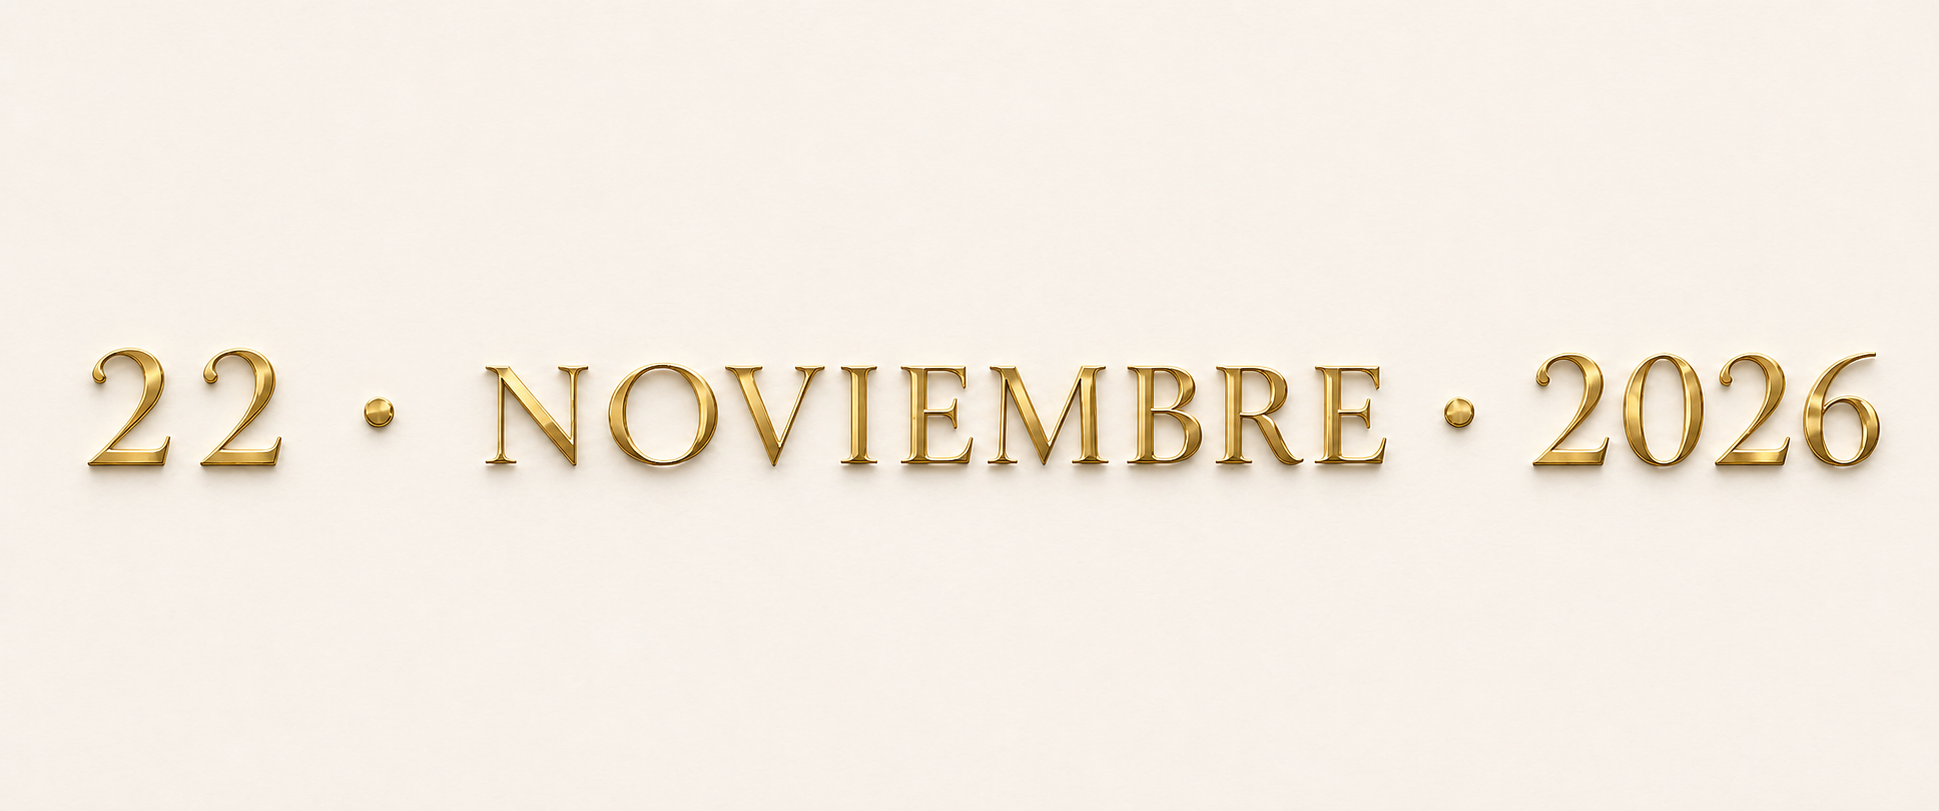
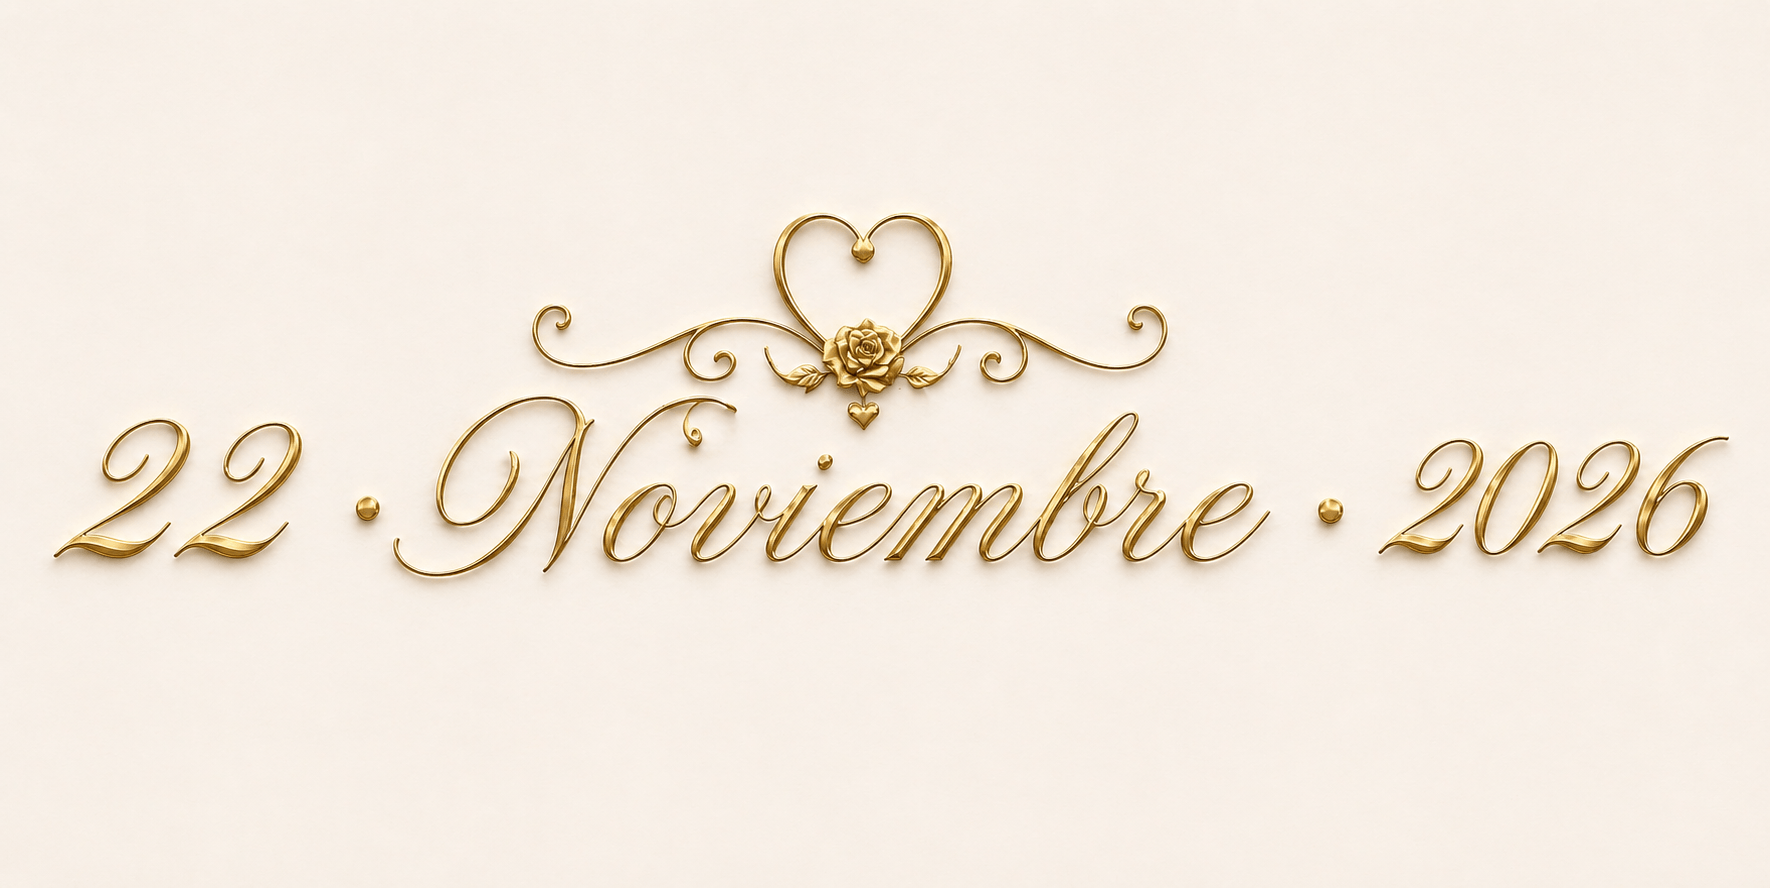
add new font

Changed region(s): [[0.0311, 0.2158, 0.7147, 0.6782], [0.7458, 0.4316, 0.9944, 0.6473]]

diff --git a/src/App.tsx b/src/App.tsx
@@ -2,7 +2,7 @@ import { useState } from "react"
 import { AddToCalendar } from "./components/AddToCalendar"
 import { Countdown } from './components/Countdown'
 import { ImageFadeGrid } from './components/ImageFadeGrid'
-import { LunaDeMielCard } from './components/LunaDeMielCard'
+//import { LunaDeMielCard } from './components/LunaDeMielCard'
 //import { MusicPlayer } from './components/MusicPlayer'
 import { RsvpModal } from "./features/rsvp/components/RsvpModal"
 import { RevealOnScroll } from "./components/RevealOnScroll"
@@ -13,14 +13,14 @@ function App() {
 
   return (
     <>
-      <section className="mx-auto w-full max-w-md pt-10 text-center bg-background">
+      <section className="mx-auto w-full md:max-w-md text-center bg-background">
 
           
 
           <RevealOnScroll>
         <div className="flex">
           <img 
-             src="https://res.cloudinary.com/dwxwejuvu/image/upload/v1777214788/xwvd2x232xmh6xg2mbwz.png" 
+             src="/nombres-04.png" 
              alt="Emilia&Nicolas"
              className="w-11/12 h-auto mx-auto object-contain" 
              />
@@ -98,7 +98,7 @@ function App() {
               </h2>
 
               <p className="md:text-lg text-xs font-montserrat text-texto tracking-wide uppercase mt-5 mb-5">
-                18:45 horas <br/>
+                18:00 horas <br/>
                 Parroquia Ntra Sra del Carmen.
               </p>
 
@@ -124,11 +124,11 @@ function App() {
               />
 
               <h2 className="md:text-xl text-base text-title font-montserratMedium tracking-wider uppercase mt-2">
-                recepción
+                Civil y Fiesta
               </h2>
 
               <p className="md:text-lg text-xs font-montserra text-texto tracking-wide uppercase mt-5 mb-5">
-                20:00 horas <br/>
+                19:00hs a 5:00hs <br/>
                 ALMANDINO - Casa de Eventos.
               </p>
 
@@ -151,9 +151,6 @@ function App() {
 
         <div className="">
 
-          <RevealOnScroll>
-          <LunaDeMielCard/>
-          </RevealOnScroll>
 
           <RevealOnScroll>
               <div className="">
@@ -184,16 +181,22 @@ function App() {
               className="mx-auto h-auto w-20 object-contain"
               />
 
-              <h2 className="md:text-xl text-base text-title font-montserratMedium tracking-wider uppercase mt-2 mb-5">
-                CONFIRMÁ TU ASISTENCIA
+              <h2 className="md:text-base text-sm text-title font-montserratMedium tracking-wider uppercase mt-2 mb-5">
+                TU PRESENCIA ES NUESTRO MEJOR REGALO
               </h2>
+
+              <p className="md:text-base text-xs font-montserra text-texto tracking-wide uppercase mt-5 mb-10">
+                Si querés acompañarnos en este momento tan importante,
+                solo necesitamos que confirmes tu asistencia.
+
+              </p>
 
              <button
                 type="button"
                 onClick={() => setIsRsvpModalOpen(true)}
                 className="px-4 py-0.5 text-sm uppercase border font-montserrat text-texto border-title rounded-full focus:ring-1"
               >
-                Completá el formulario
+                Confirmar Asistencia
               </button>
             </div>
 

diff --git a/src/features/rsvp/components/RsvpForm.tsx b/src/features/rsvp/components/RsvpForm.tsx
@@ -58,11 +58,12 @@ export const RsvpForm = () => {
   return (
     <div className="space-y-5 text-center text-[#262e54]">
       <h2 className="font-serif text-2xl uppercase tracking-[0.25em] text-[#c9a227]">
-        ¡Gracias por confirmar!
+        ¡Gracias por acompañarnos!
       </h2>
 
       <p className="text-sm leading-relaxed text-[#262e54]/70">
-        Tu asistencia fue registrada correctamente.
+        Tu presencia es lo más importante para nosotros
+        y estamos muy felices de que formes parte de este momento.
       </p>
 
       <div className="rounded-2xl border border-[#d4af37]/40 bg-[#f8f4ed] p-5 text-left shadow-sm">
@@ -87,7 +88,7 @@ export const RsvpForm = () => {
 
         <div className="mt-4 border-t border-[#d4af37]/30 pt-4 text-center">
           <p className="text-xs uppercase tracking-widest text-[#262e54]/50">
-            Total a abonar
+            Tu asistencia fue registrada correctamente.
           </p>
 
           <p className="mt-1 text-2xl font-semibold text-[#262e54]">

diff --git a/src/features/rsvp/components/RsvpModal.tsx b/src/features/rsvp/components/RsvpModal.tsx
@@ -26,7 +26,7 @@ export const RsvpModal = ({ isOpen, onClose }: RsvpModalProps) => {
           </h2>
 
           <p className="mt-3 text-sm leading-relaxed text-texto">
-            Completá tus datos y reserva tu tarjeta antes del 10 de noviembre de 2026.
+            Completá tus datos para acompañarnos en este día tan especial antes del 31 de octubre de 2026.
           </p>
         </div>
 

diff --git a/index.html b/index.html
@@ -1,7 +1,8 @@
 <!doctype html>
 <html lang="en">
     <head>
-   <meta property="og:type" content="website" />
+<meta name="viewport" content="width=device-width, initial-scale=1.0" />
+<meta property="og:type" content="website" />
 <meta property="og:title" content="Emilia & Nicolas — ¡Nos casamos!" />
 <meta
   property="og:description"

diff --git a/src/features/rsvp/config/payment.config.ts b/src/features/rsvp/config/payment.config.ts
@@ -1,4 +1,4 @@
 export const weddingPaymentConfig = {
   cardPrice: 80000,
-  mercadoPagoUrl: "https://www.mercadopago.com.ar/checkout/v1/redirect?pref_id=123456789-example",
+  mercadoPagoUrl: "https://link.mercadopago.com.ar/emilianicolas",
 }
